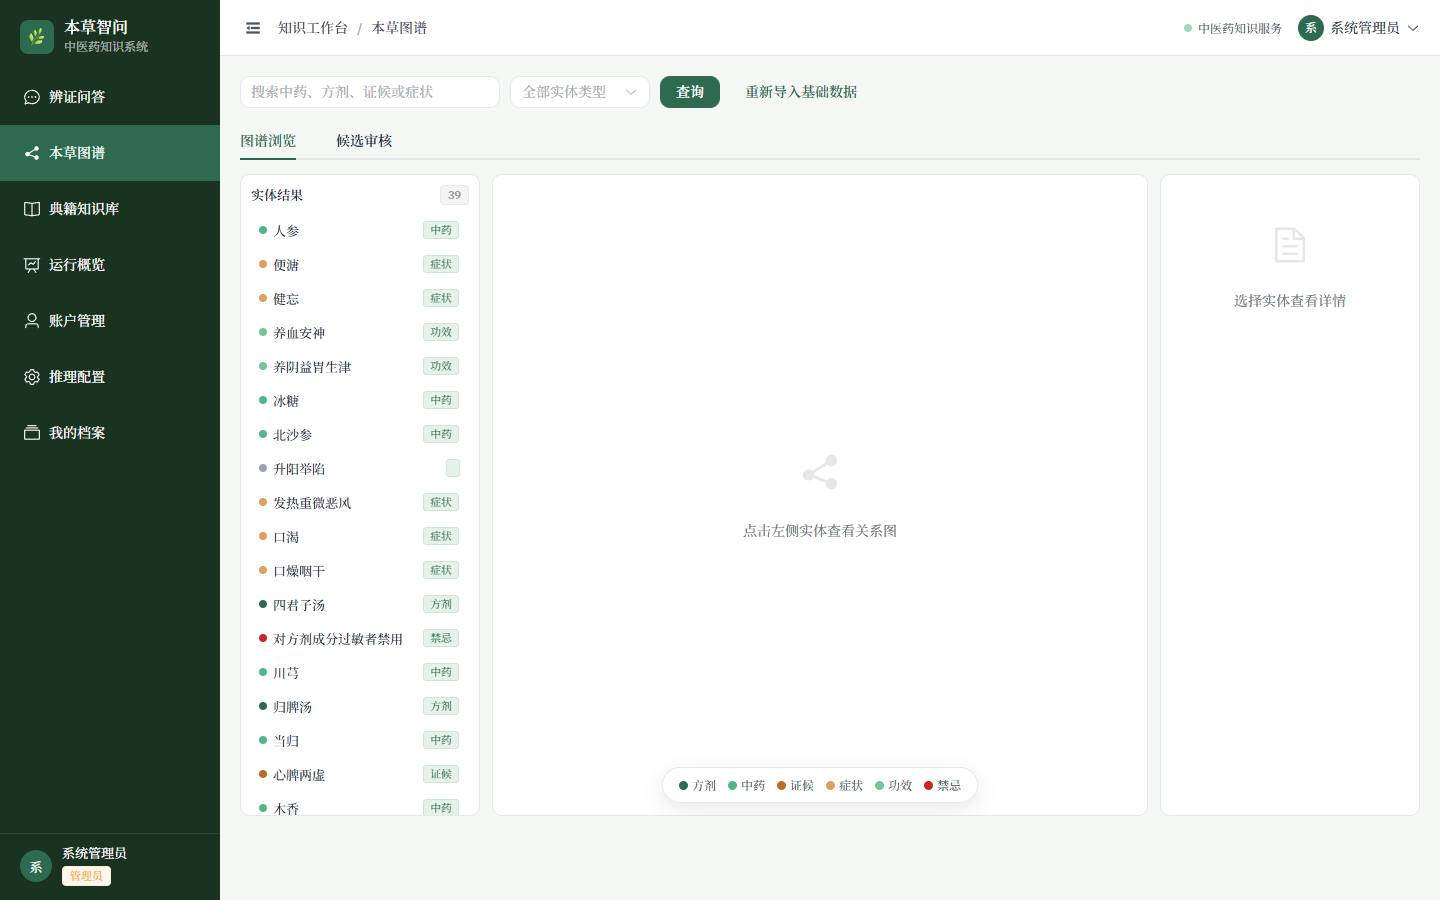
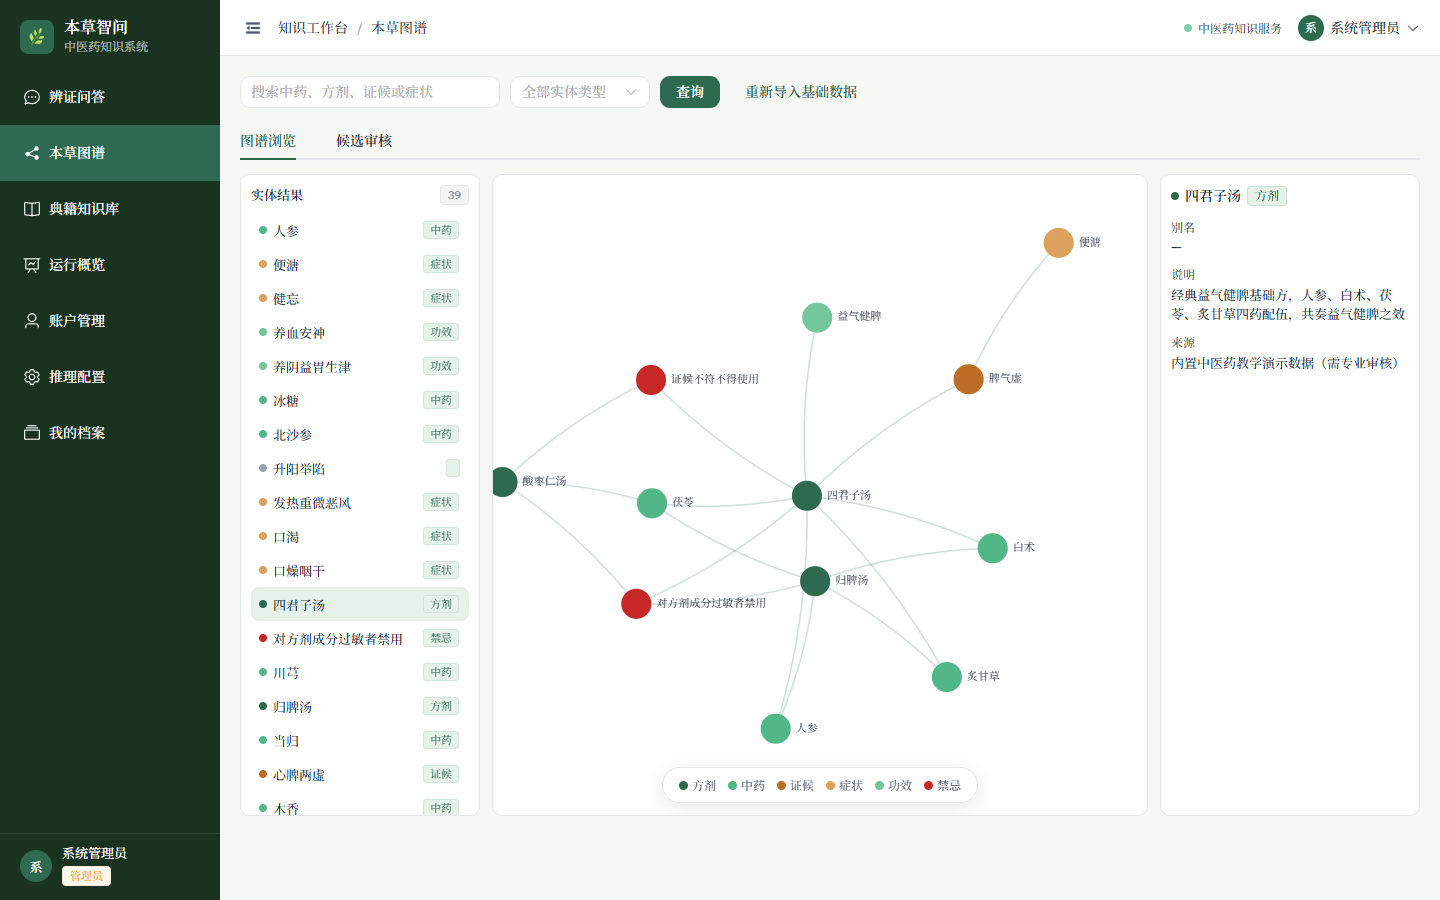
docs: 图谱截图换为四君子汤实体关系图，登录页文案夸前端设计

diff --git a/README.md b/README.md
@@ -46,7 +46,7 @@ flowchart TB
 
 ### 登录页
 
-左侧品牌区展示系统能力要点，右侧登录表单，支持自助注册与演示账号一键填充。
+墨绿主色 + 米白卡片的中医药气质界面，左侧品牌区以渐变背景、短横线要点与装饰引号呈现系统能力，右侧登录表单采用小字距标签、仅下边框输入框与全宽按钮，整体克制且有辨识度；支持自助注册与演示账号一键填充。
 
 ![登录页](./assets/login.png)
 
@@ -70,9 +70,9 @@ flowchart TB
 
 ### 本草图谱
 
-Neo4j 知识图谱可视化浏览，方剂 / 中药 / 证候 / 功效等实体与关系一图呈现，点击节点可展开关联。
+Neo4j 知识图谱可视化浏览。点击左侧实体（如「四君子汤」），中间力导向图渲染该实体的 2 跳邻居关系网络（方剂 → 中药 → 证候 → 功效 等多类型节点以不同颜色区分），右侧面板展示实体别名、说明与来源；悬停连线可查看完整三元组关系。
 
-![本草图谱](./assets/graph.png)
+![本草图谱 - 四君子汤实体关系图](./assets/graph.png)
 
 ## 目录
 
